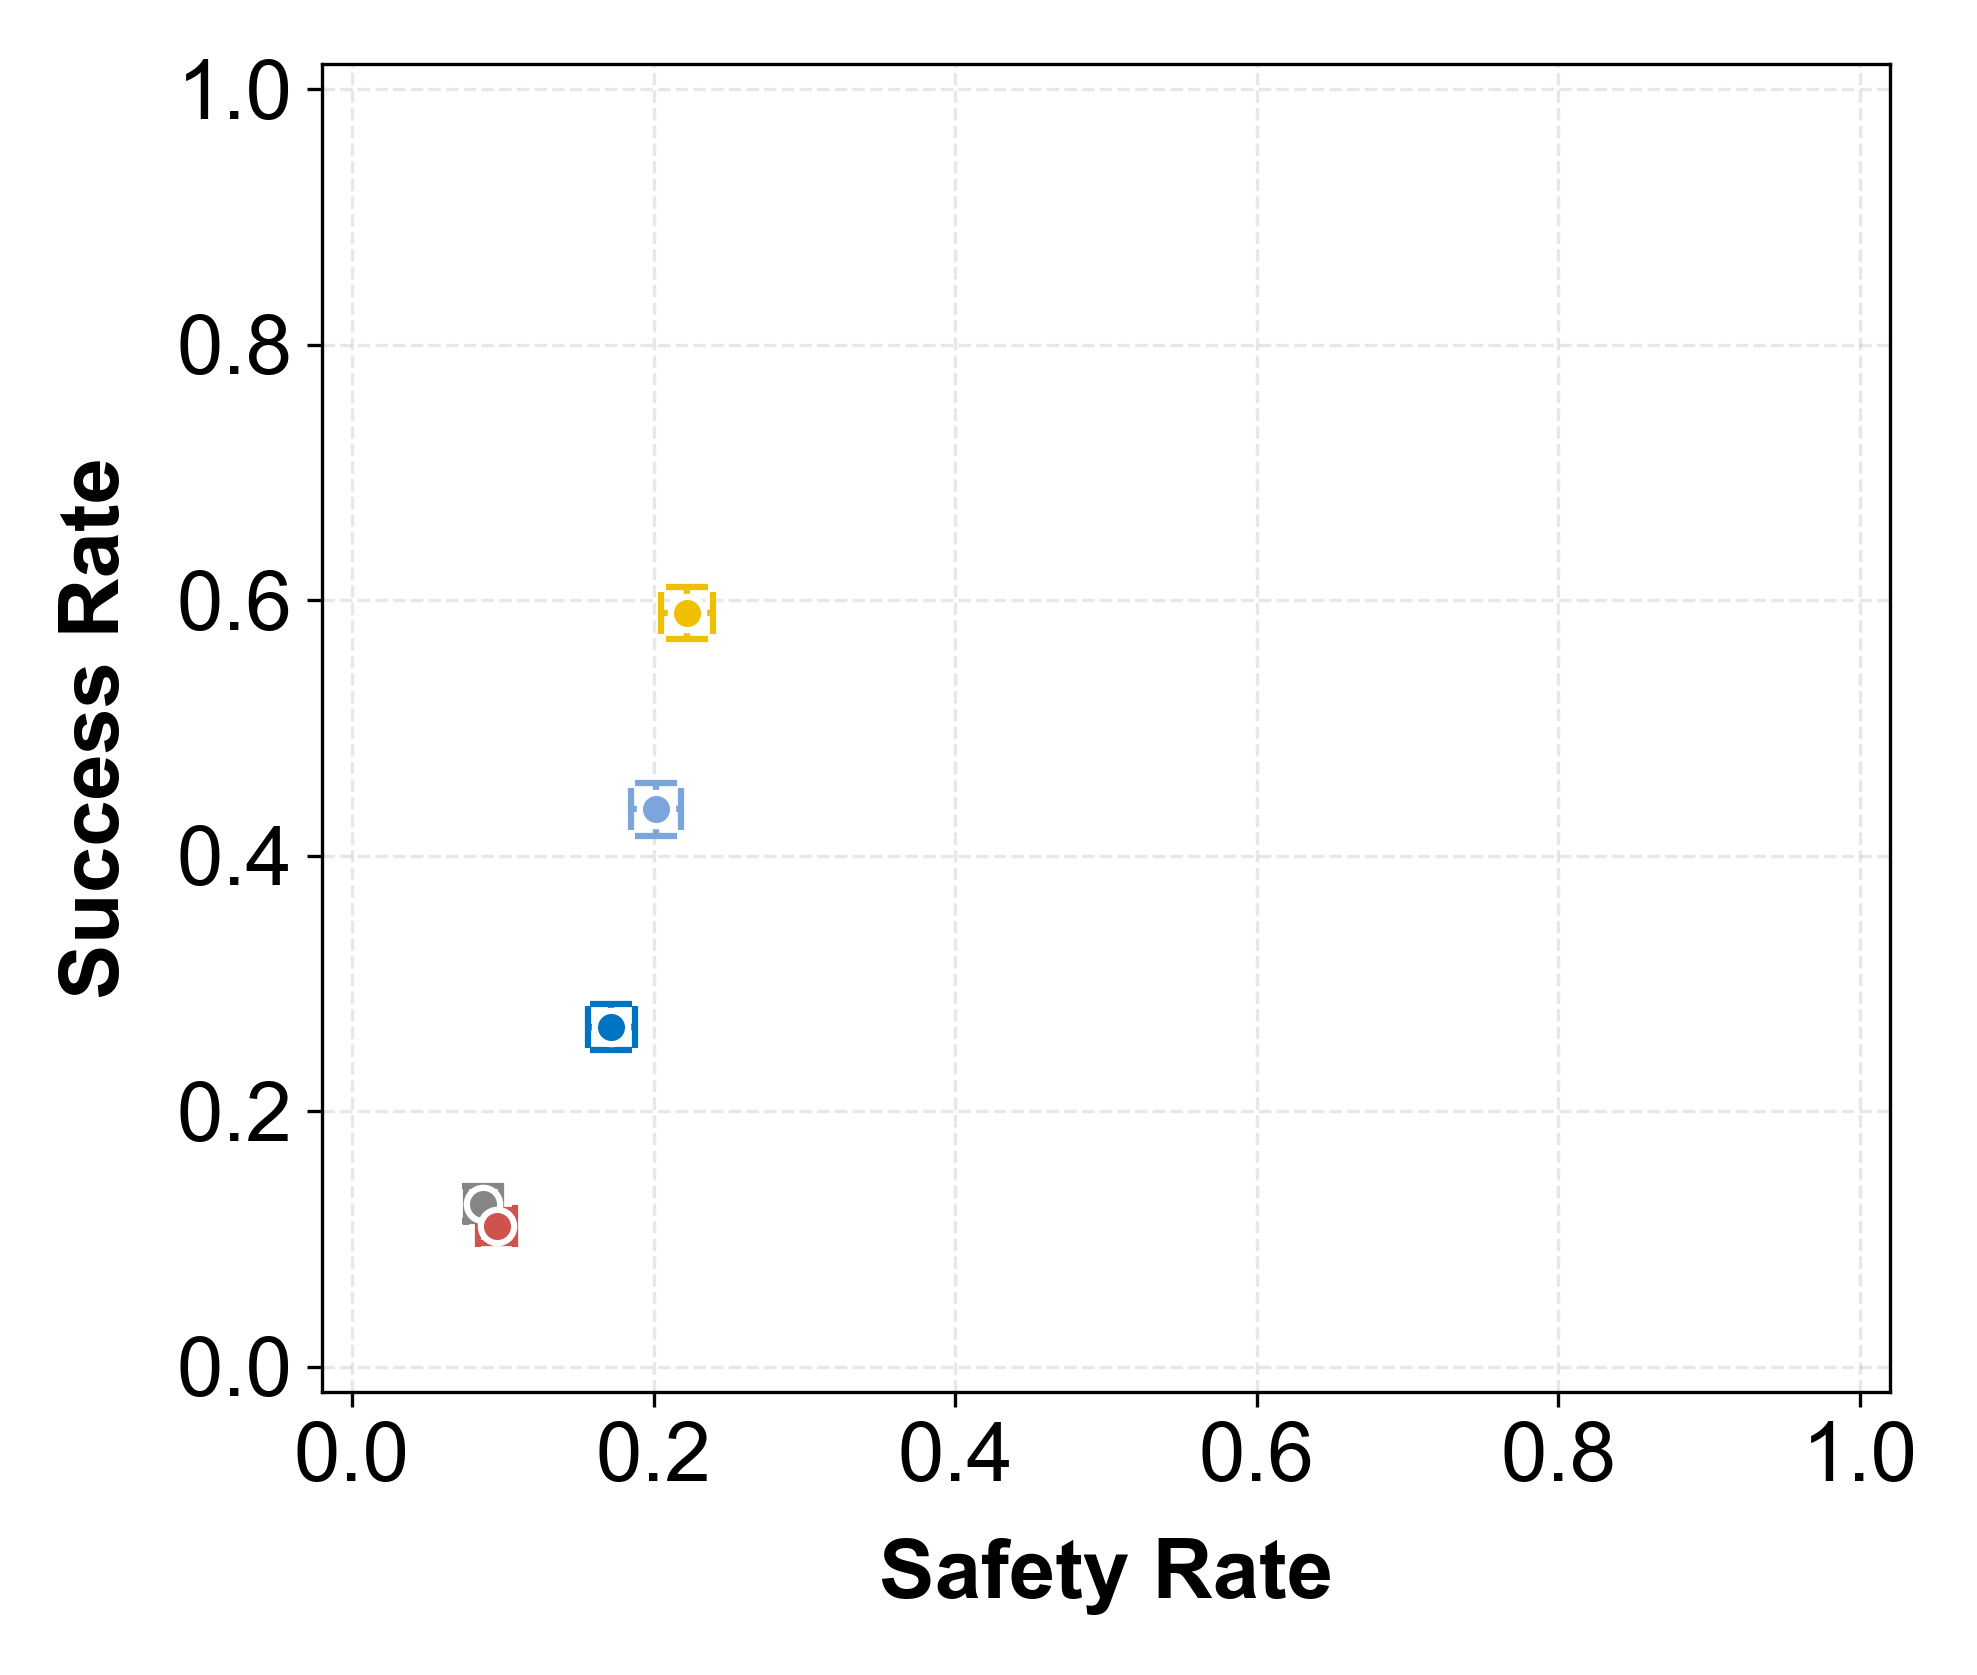
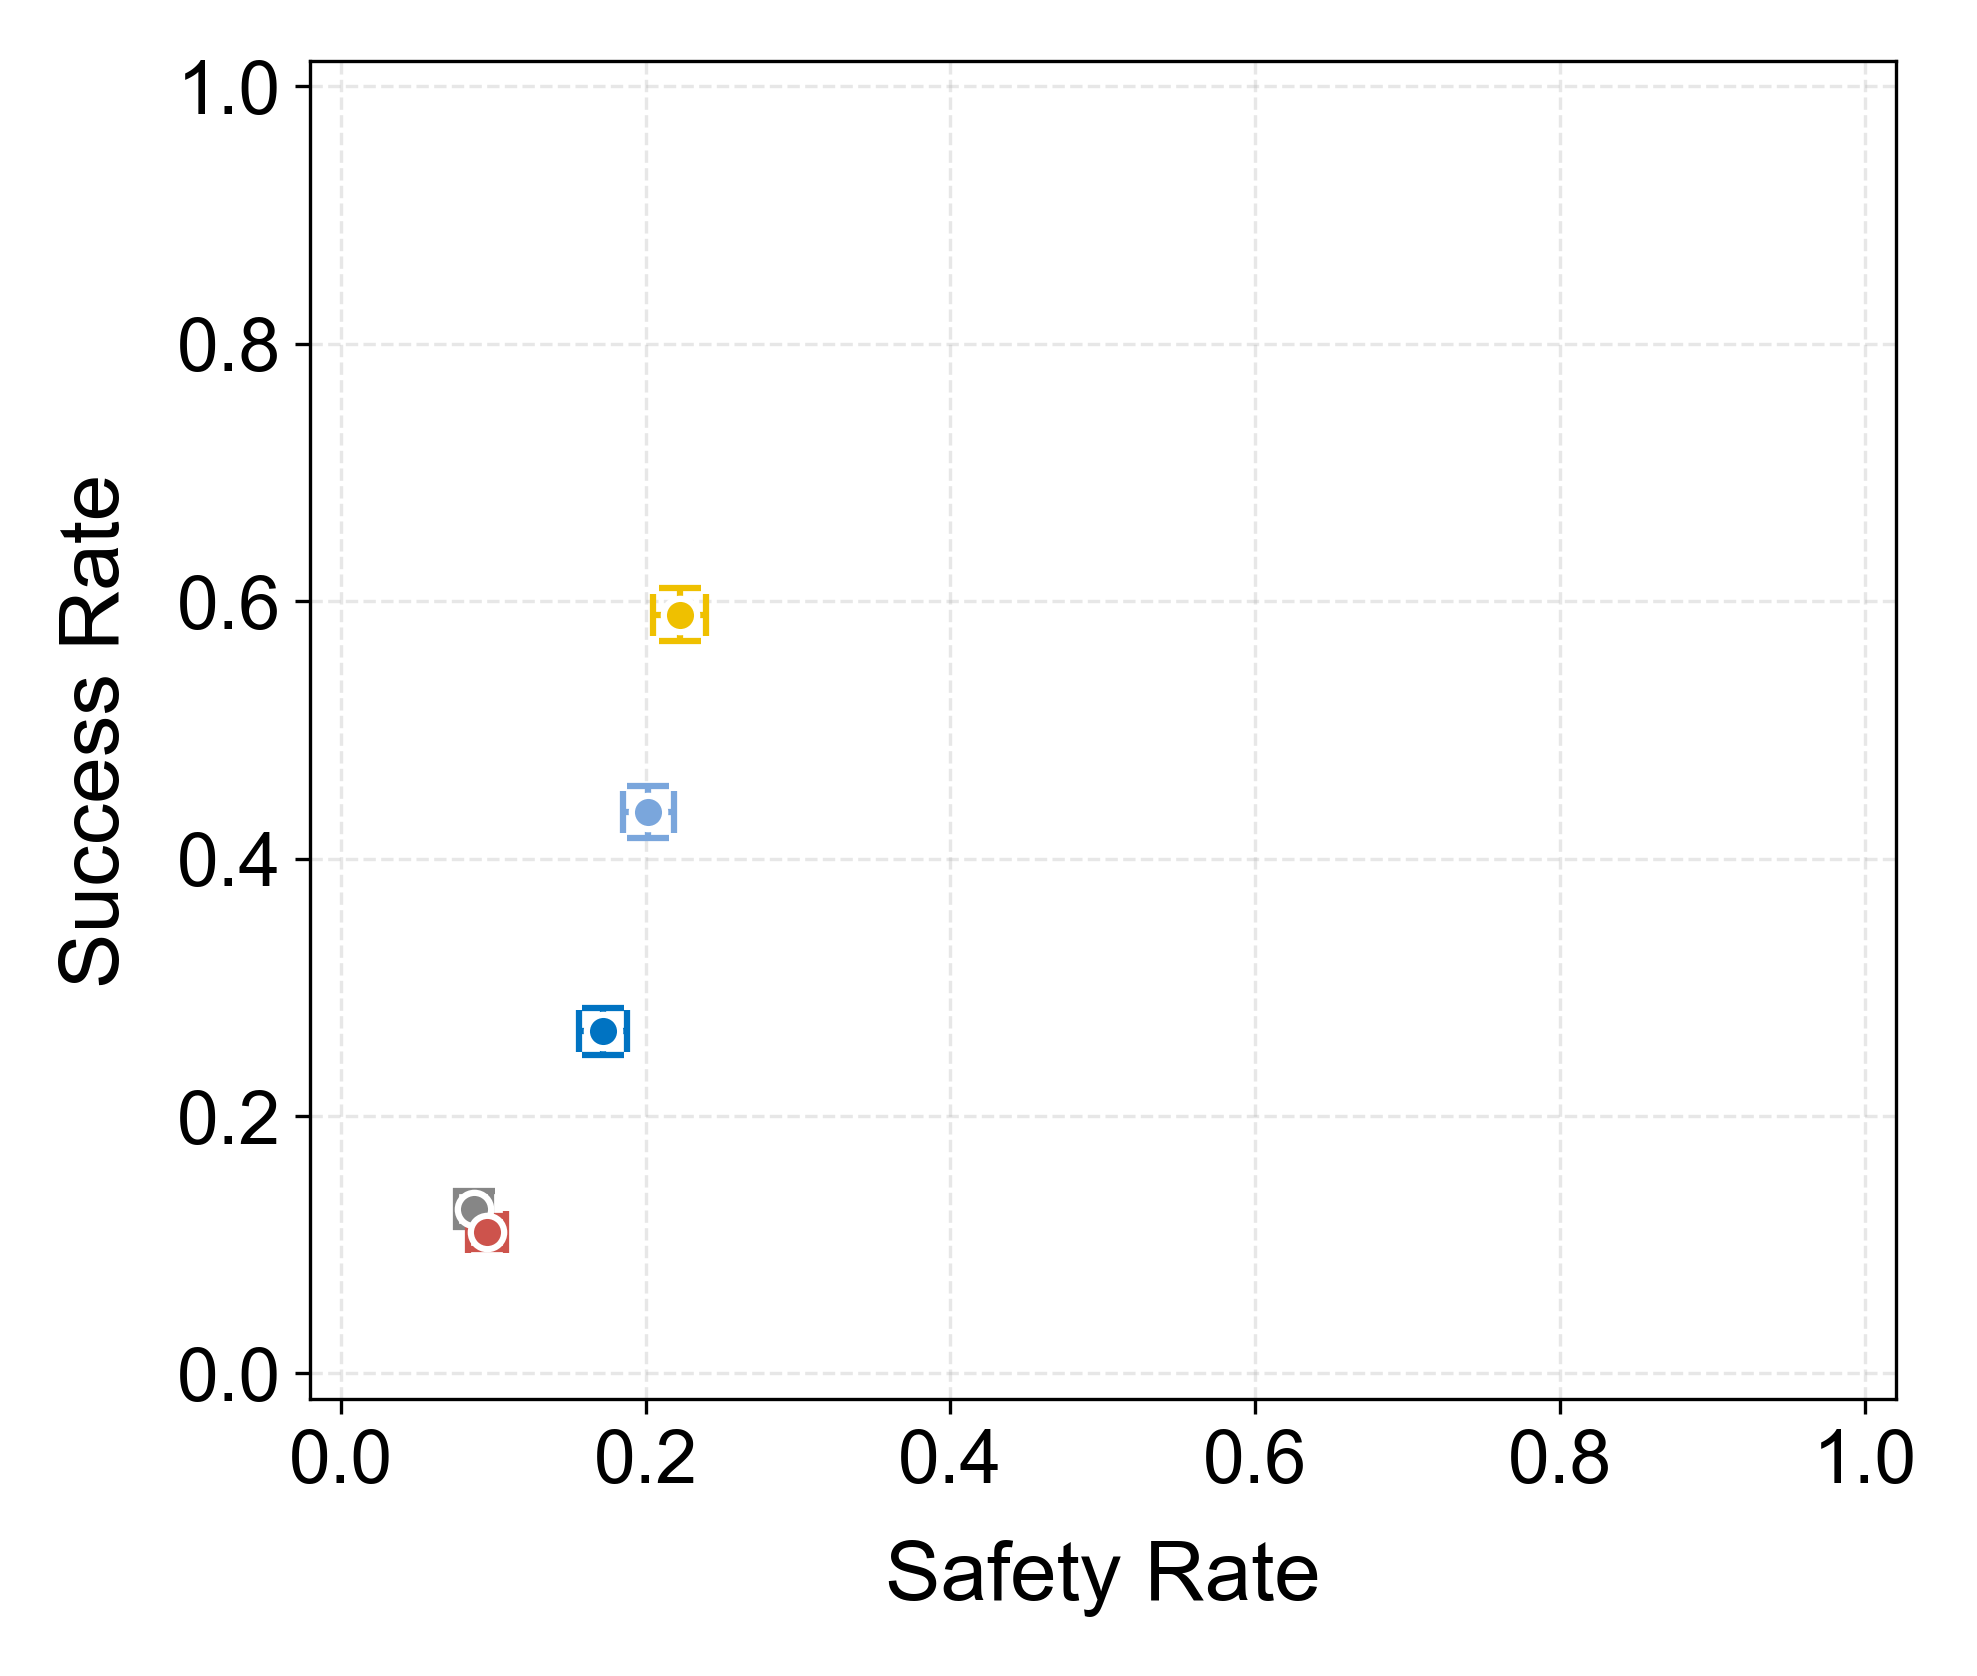
Summary plots: Make the labels non-bold.

diff --git a/routing_result_plotting/file_utils.py b/routing_result_plotting/file_utils.py
@@ -190,8 +190,8 @@ def plot_results(save_result_path, sample_num):
     ax.set_axisbelow(True)  # Place grid behind points
 
     # Set labels and title with improved fonts
-    ax.set_xlabel("Safety Rate", fontsize=20, fontweight='bold', labelpad=10)
-    ax.set_ylabel("Success Rate", fontsize=20, fontweight='bold', labelpad=10)
+    ax.set_xlabel("Safety Rate", fontsize=20, fontweight='normal', labelpad=10)
+    ax.set_ylabel("Success Rate", fontsize=20, fontweight='normal', labelpad=10)
     # ax.set_title(f"Success vs. Safety Analysis\n(Top {sample_num} samples per error type)",
     #              fontsize=20,
     #              fontweight='bold',
@@ -202,7 +202,7 @@ def plot_results(save_result_path, sample_num):
     ax.set_ylim(-0.02, 1.02)
 
     # Customize ticks
-    ax.tick_params(axis='both', which='major', labelsize=20)
+    ax.tick_params(axis='both', which='major', labelsize=18)
 
     # Adjust layout to prevent label cutoff
     plt.tight_layout()
